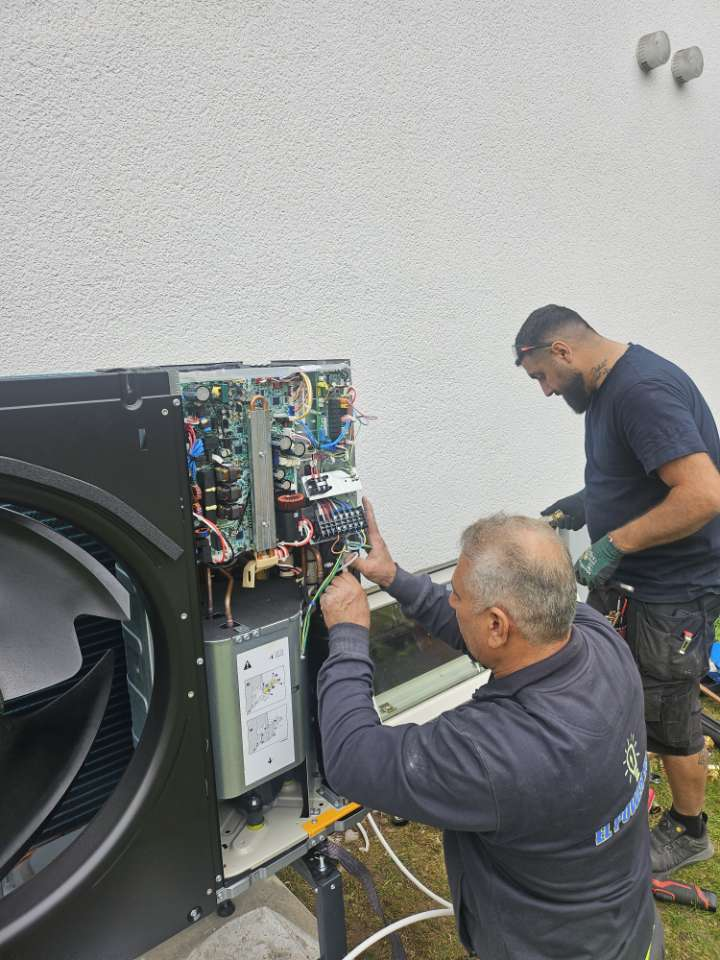
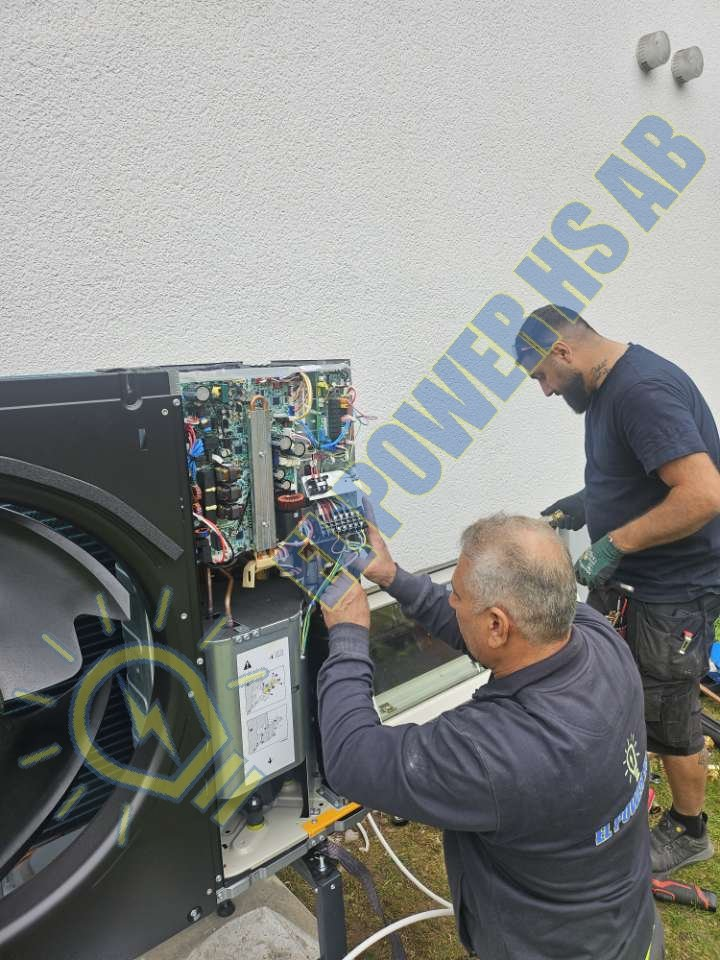
updates the few

diff --git a/index.html b/index.html
@@ -205,9 +205,9 @@ body {
     </div>
 </div>
 
-<div class="htmlSpacing"></div>
+<!-- <div class="htmlSpacing"></div> -->
 
-<div class="Sect2">
+<!-- <div class="Sect2">
   <div class="slideContainer">
     <img src="media/holding_diplom.jpg" alt="">
     <div class="textOrder">
@@ -217,7 +217,7 @@ body {
       </p>
     </div>
   </div>
-</div>
+</div> -->
 
 <div class="htmlSpacing"></div>
 

diff --git a/contacts.html b/contacts.html
@@ -288,7 +288,7 @@
 
             <p>
                 <strong>Telefon</strong><br>
-                NUMBER
+                072 2322 1170
             </p>
 
             <p>
